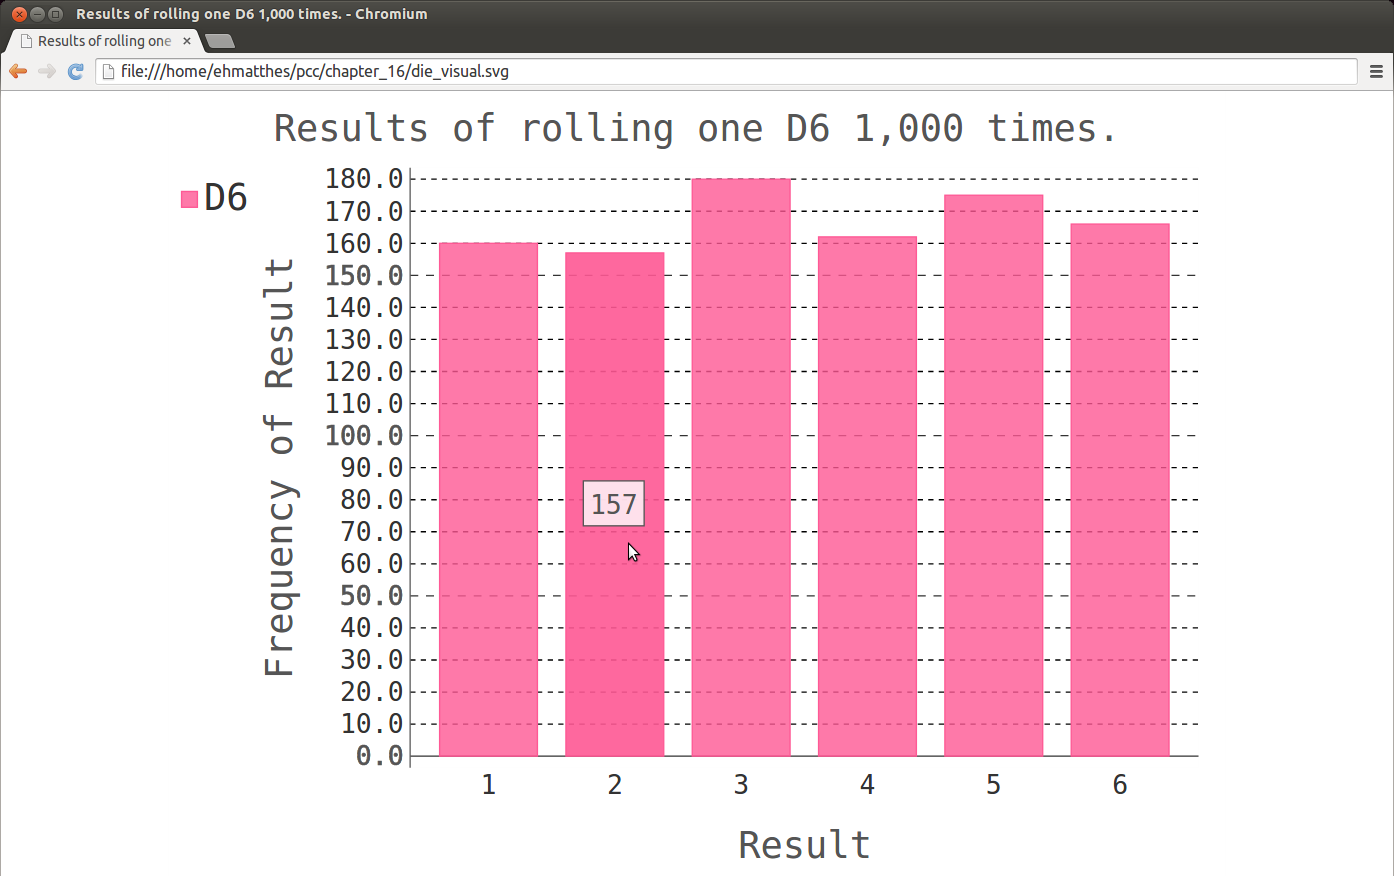
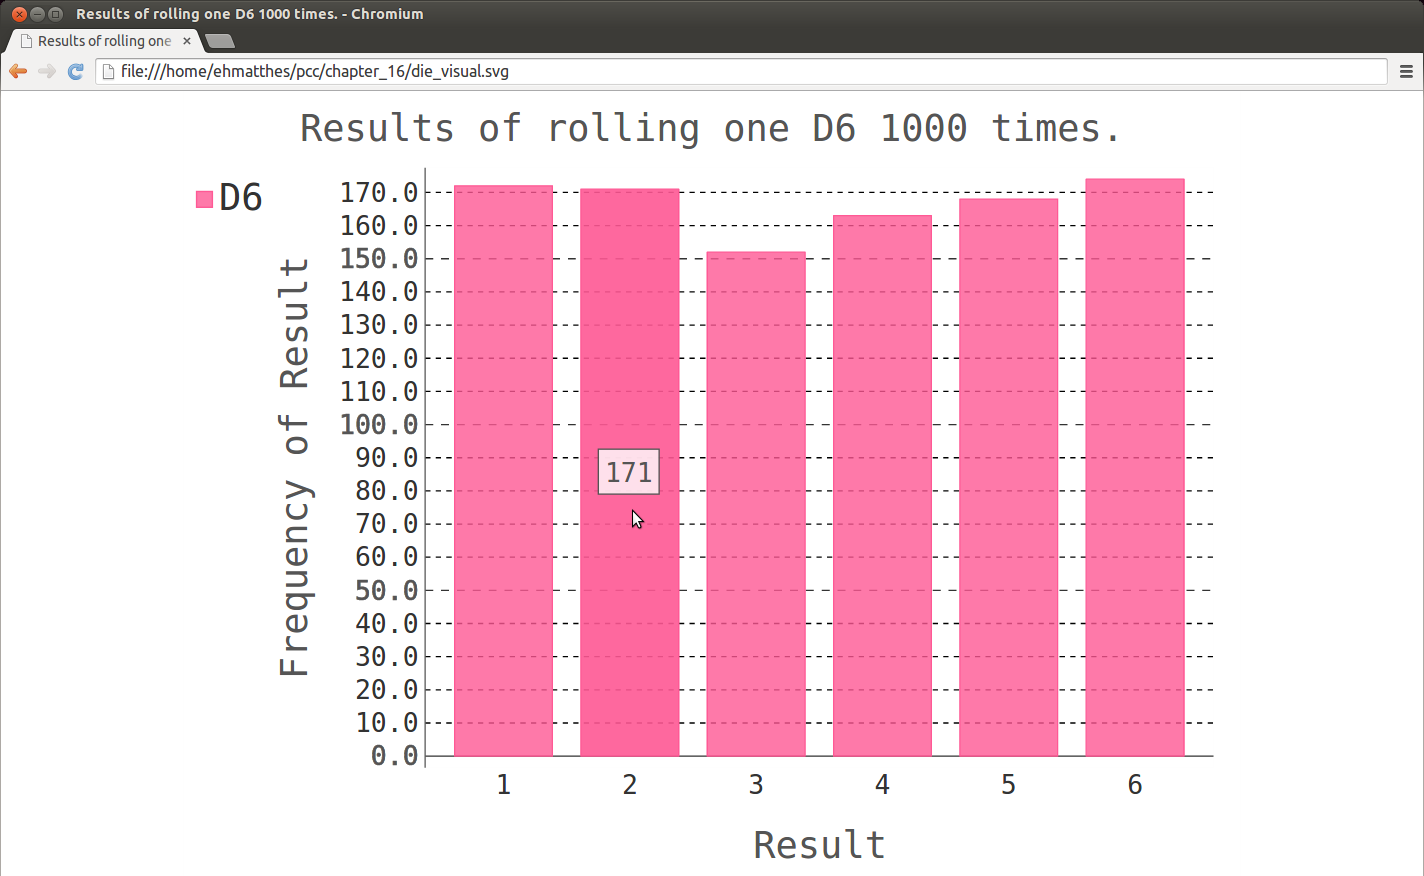
Updated chapter 15 screenshots.

diff --git a/chapter_15/die_visual.py b/chapter_15/die_visual.py
@@ -20,7 +20,7 @@ for value in range(1, die.num_sides+1):
 # Visualize the results.
 hist = pygal.Bar()
 
-hist.title = "Results of rolling one D6 1,000 times."
+hist.title = "Results of rolling one D6 1000 times."
 hist.x_labels = ['1', '2', '3', '4', '5', '6']
 hist.x_title = "Result"
 hist.y_title = "Frequency of Result"
